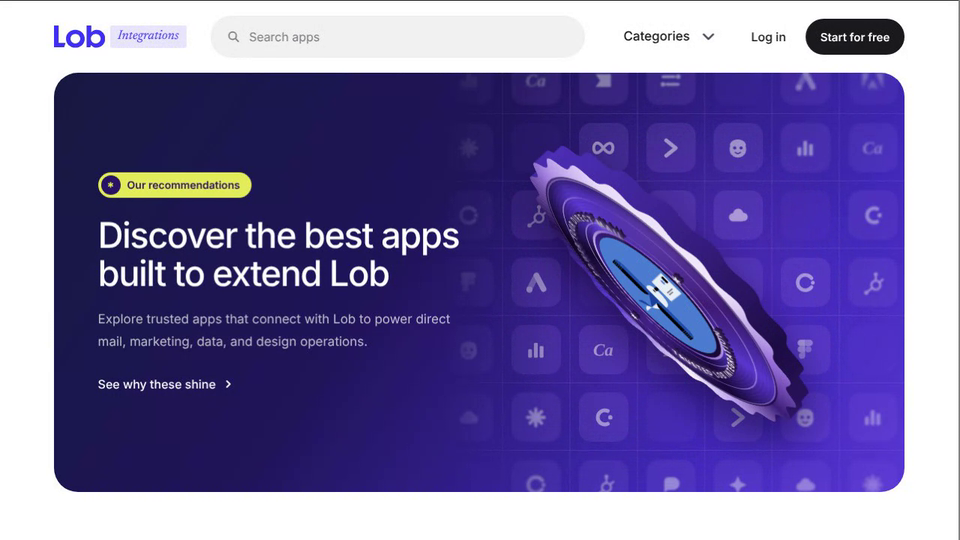
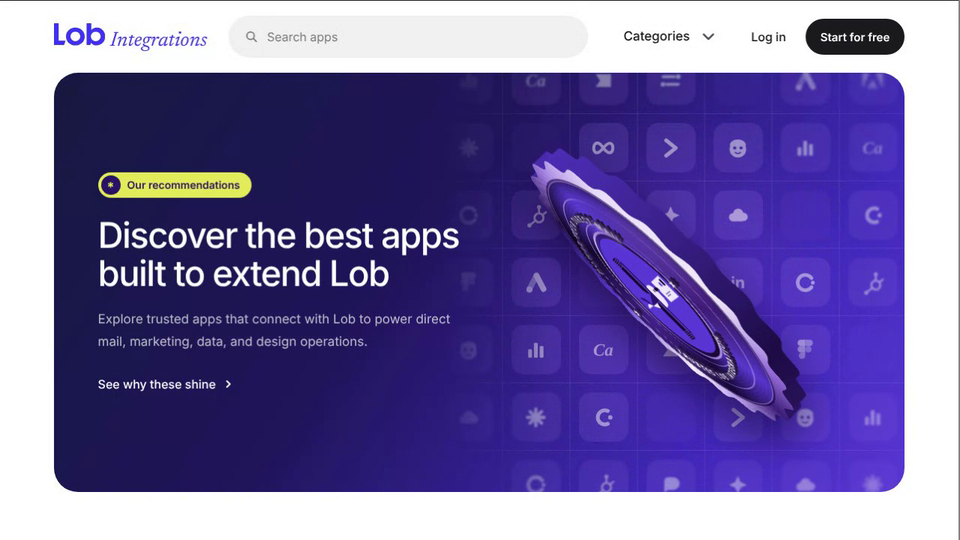
Lob Integrations Hero: purple bird, Integrations text on the Lob baseline (#399)
* Lob Integrations Hero: copy from lob.com/integrations, metallic purple, smaller elements, more integrations

Claude-Session: https://claude.ai/code/session_01AHeBdw5Dmhovddhvfinq8X

* Lob Integrations Hero: remove the square L from the header

Claude-Session: https://claude.ai/code/session_01AHeBdw5Dmhovddhvfinq8X

* Lob Integrations Hero: mute the logo grid

Claude-Session: https://claude.ai/code/session_01AHeBdw5Dmhovddhvfinq8X

* Lob Integrations Hero: remove the banner row and the Data/Design/API line

Claude-Session: https://claude.ai/code/session_01AHeBdw5Dmhovddhvfinq8X

* Lob Integrations Hero: satin coin surface, spinning two-sided badge, bigger badge, white-on-purple logo grid, switcher in the top nav, Direct Mail Delivery Engine ring text

Claude-Session: https://claude.ai/code/session_01AHeBdw5Dmhovddhvfinq8X

* Lob Integrations Hero: 3D raised silver lettering and link, purple blueprint backdrop, flat tiles, location hero colours and buttons

Claude-Session: https://claude.ai/code/session_01AHeBdw5Dmhovddhvfinq8X

* Lob Integrations Hero: drop stale merged lines

Claude-Session: https://claude.ai/code/session_01AHeBdw5Dmhovddhvfinq8X

* Lob Integrations Hero: marketplace layout, new headline, no mesh lines

Claude-Session: https://claude.ai/code/session_01AHeBdw5Dmhovddhvfinq8X

* Lob Integrations Hero: badge only, thicker badge, softer emboss, metallic text, Deel-style copy for Lob

Claude-Session: https://claude.ai/code/session_01AHeBdw5Dmhovddhvfinq8X
[…]

Changed region(s): [[0.5625, 0.2667, 0.8438, 0.7704], [0.0625, 0.0296, 0.3438, 0.0889]]

diff --git a/lob-integrations-hero/index.html b/lob-integrations-hero/index.html
@@ -23,9 +23,9 @@ nav.back b{font-weight:500;color:#fff;overflow:hidden;text-overflow:ellipsis}
 /* ---------- Lob marketplace header ---------- */
 :root{--gut:clamp(20px,5.6vw,72px)}
 .top{flex:none;height:96px;display:flex;align-items:center;gap:28px;padding:0 var(--gut)}
-.brand{isolation:isolate;display:flex;align-items:center;gap:7px;color:#16161a;text-decoration:none;white-space:nowrap}
+.brand{isolation:isolate;display:flex;align-items:baseline;gap:7px;color:#16161a;text-decoration:none;white-space:nowrap}
 .brand .logo{height:30px;width:auto;display:block}
-.brand em{font:italic 400 17px/1 var(--serif);background:#e9e6fb;border-radius:3px;padding:6px 10px 7px;color:#4131f1;white-space:nowrap}
+.brand em{font:italic 400 27px/1 var(--serif);color:#4131f1;white-space:nowrap;padding:0}
 .search{flex:0 1 500px;margin:0 auto;display:flex;align-items:center;gap:12px;height:56px;padding:0 22px;border-radius:99px;background:#f1f1f1;color:#7a7a82;font-size:16px;min-width:0}
 .search svg{flex:none}
 .top .links{display:flex;align-items:center;gap:26px;white-space:nowrap;font-size:16px;font-weight:500}
@@ -260,7 +260,7 @@ function stack(inner,n,z0,dz,front){
    '<radialGradient id="plate" cx=".35" cy=".28" r=".9"><stop offset="0" stop-color="#5a37d4"/><stop offset=".55" stop-color="#26104f"/><stop offset="1" stop-color="#120626"/></radialGradient>'+
    '<linearGradient id="rim" x1="0" y1="0" x2="1" y2="1"><stop offset="0" stop-color="#faf5ff"/><stop offset=".5" stop-color="#6a35b8"/><stop offset="1" stop-color="#e2d0ff"/></linearGradient></defs>'+
    '<circle cx="200" cy="200" r="141" fill="none" stroke="url(#rim)" stroke-width="1.6" opacity=".8"/><circle cx="200" cy="200" r="106" fill="none" stroke="url(#rim)" stroke-width="1.6" opacity=".8"/>'+
-   '<circle cx="200" cy="200" r="94" fill="url(#plate)" stroke="url(#rim)" stroke-width="3.4"/><circle cx="200" cy="200" r="86" fill="none" stroke="#000" stroke-opacity=".35" stroke-width="1.5"/><circle cx="200" cy="200" r="86" fill="#4d7dd0"/><g transform="translate(200 200) scale(.23) translate(-582.5 -453.5)"><path d="M360 478H555V523C500 523 440 512 360 478Z" fill="#e8eff7"/><path d="M555 392C585 380 640 380 662 420C674 452 660 490 640 506C615 524 585 523 555 523Z" fill="#e8eff7"/><path d="M245 478C275 452 330 448 360 478Z" fill="#e8eff7"/><path d="M265 410C310 405 350 428 357 458L360 476Z" fill="#1a41a0"/><path d="M360 478 555 405V478Z" fill="#1a41a0"/><path d="M448 187H503V421C468 421 448 400 448 372Z"/><path d="M503 187A52 52 0 0 1 555 239V421H503Z" fill="#1a41a0"/><path d="M448 720H503V478C468 478 448 500 448 528Z"/><path d="M503 720A52 52 0 0 0 555 668V478H503Z" fill="#1a41a0"/><g fill="none" stroke="#5b86d6" stroke-width="2.2"><path d="M503 197A42 42 0 0 1 545 239V421M503 207A32 32 0 0 1 535 239V421M503 217A22 22 0 0 1 525 239V421M503 227A12 12 0 0 1 515 239V421"/><path d="M503 710A42 42 0 0 0 545 668V478M503 700A32 32 0 0 0 535 668V478M503 690A22 22 0 0 0 525 668V478M503 680A12 12 0 0 0 515 668V478"/><path d="M448 198H503M448 208H503M448 219H503M448 230H503M448 241H503M448 666H503M448 677H503M448 688H503M448 699H503M448 710H503"/></g><circle cx="621" cy="426" r="9"/><path d="M643 418C670 413 705 417 721 428C700 437 665 439 643 434Z"/><path d="M700 436 721 429 714 443Z" fill="#1a41a0"/><rect x="705" y="387" width="215" height="127" fill="#e8eff7"/><rect x="759" y="471" width="110" height="3"/><rect x="759" y="483" width="79" height="3"/><path d="M840 417H900M840 429H900" stroke="#4d7dd0" stroke-width="2.6"/><circle cx="831" cy="423" r="13" fill="#4d7dd0"/><rect x="868" y="402" width="32" height="37"/></g></svg>';
+   '<circle cx="200" cy="200" r="94" fill="url(#plate)" stroke="url(#rim)" stroke-width="3.4"/><circle cx="200" cy="200" r="86" fill="none" stroke="#000" stroke-opacity=".35" stroke-width="1.5"/><circle cx="200" cy="200" r="86" fill="#5a37d4"/><g fill="#150836" transform="translate(200 200) scale(.235) translate(-570 -453.5)"><path d="M360 478H555V523C500 523 440 512 360 478Z" fill="#efe9ff"/><path d="M555 392C585 380 640 380 662 420C674 452 660 490 640 506C615 524 585 523 555 523Z" fill="#efe9ff"/><path d="M245 478C275 452 330 448 360 478Z" fill="#efe9ff"/><path d="M265 410C310 405 350 428 357 458L360 476Z" fill="#2a1170"/><path d="M360 478 555 405V478Z" fill="#2a1170"/><path d="M448 187H503V421C468 421 448 400 448 372Z"/><path d="M503 187A52 52 0 0 1 555 239V421H503Z" fill="#2a1170"/><path d="M448 720H503V478C468 478 448 500 448 528Z"/><path d="M503 720A52 52 0 0 0 555 668V478H503Z" fill="#2a1170"/><g fill="none" stroke="#9a80f2" stroke-width="2.2"><path d="M503 197A42 42 0 0 1 545 239V421M503 207A32 32 0 0 1 535 239V421M503 217A22 22 0 0 1 525 239V421M503 227A12 12 0 0 1 515 239V421"/><path d="M503 710A42 42 0 0 0 545 668V478M503 700A32 32 0 0 0 535 668V478M503 690A22 22 0 0 0 525 668V478M503 680A12 12 0 0 0 515 668V478"/><path d="M448 198H503M448 208H503M448 219H503M448 230H503M448 241H503M448 666H503M448 677H503M448 688H503M448 699H503M448 710H503"/></g><rect x="705" y="387" width="190" height="127" fill="#efe9ff"/><rect x="750" y="471" width="98" height="3"/><rect x="750" y="483" width="70" height="3"/><path d="M818 417H875M818 429H875" stroke="#5a37d4" stroke-width="2.6"/><circle cx="809" cy="423" r="13" fill="#5a37d4"/><rect x="845" y="402" width="32" height="37"/><circle cx="621" cy="426" r="9"/><path d="M643 418C670 413 705 417 721 428C700 437 665 439 643 434Z"/><path d="M700 436 721 429 714 443Z" fill="#2a1170"/></g></svg>';
   /* soft bloom: blurred copies of the outer words (MAIL, TRUSTED), faded in over a small area and breathing slowly */
   var bt='font-family="Inter,Arial,sans-serif" font-weight="700" font-size="13" letter-spacing="2.8" fill="#f4edff" text-anchor="middle"';
   function bloom(id,x,y,href,off,delay){
